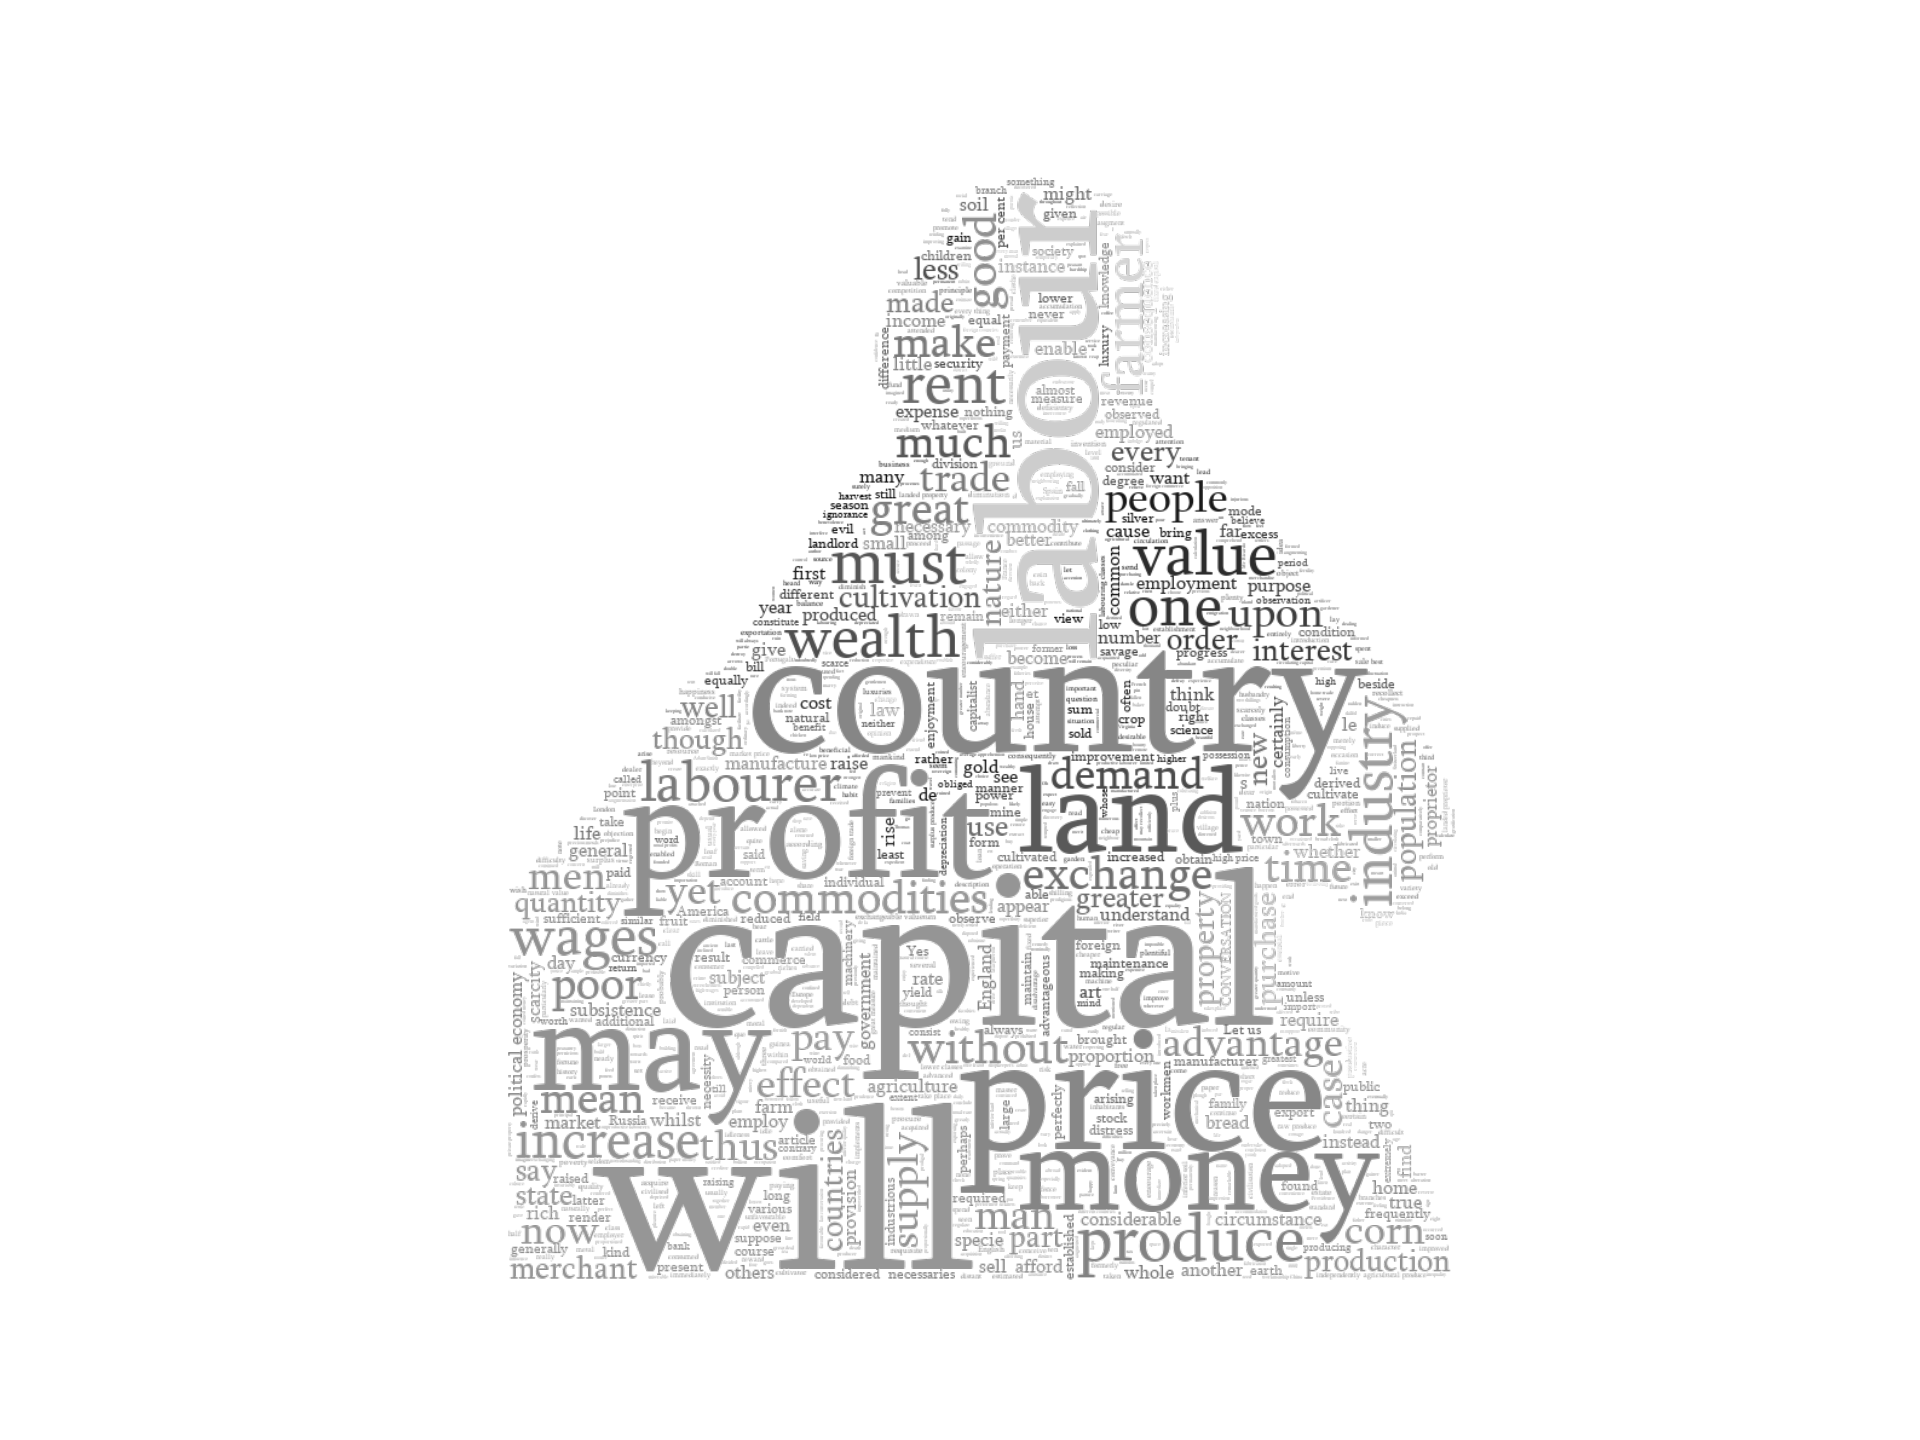
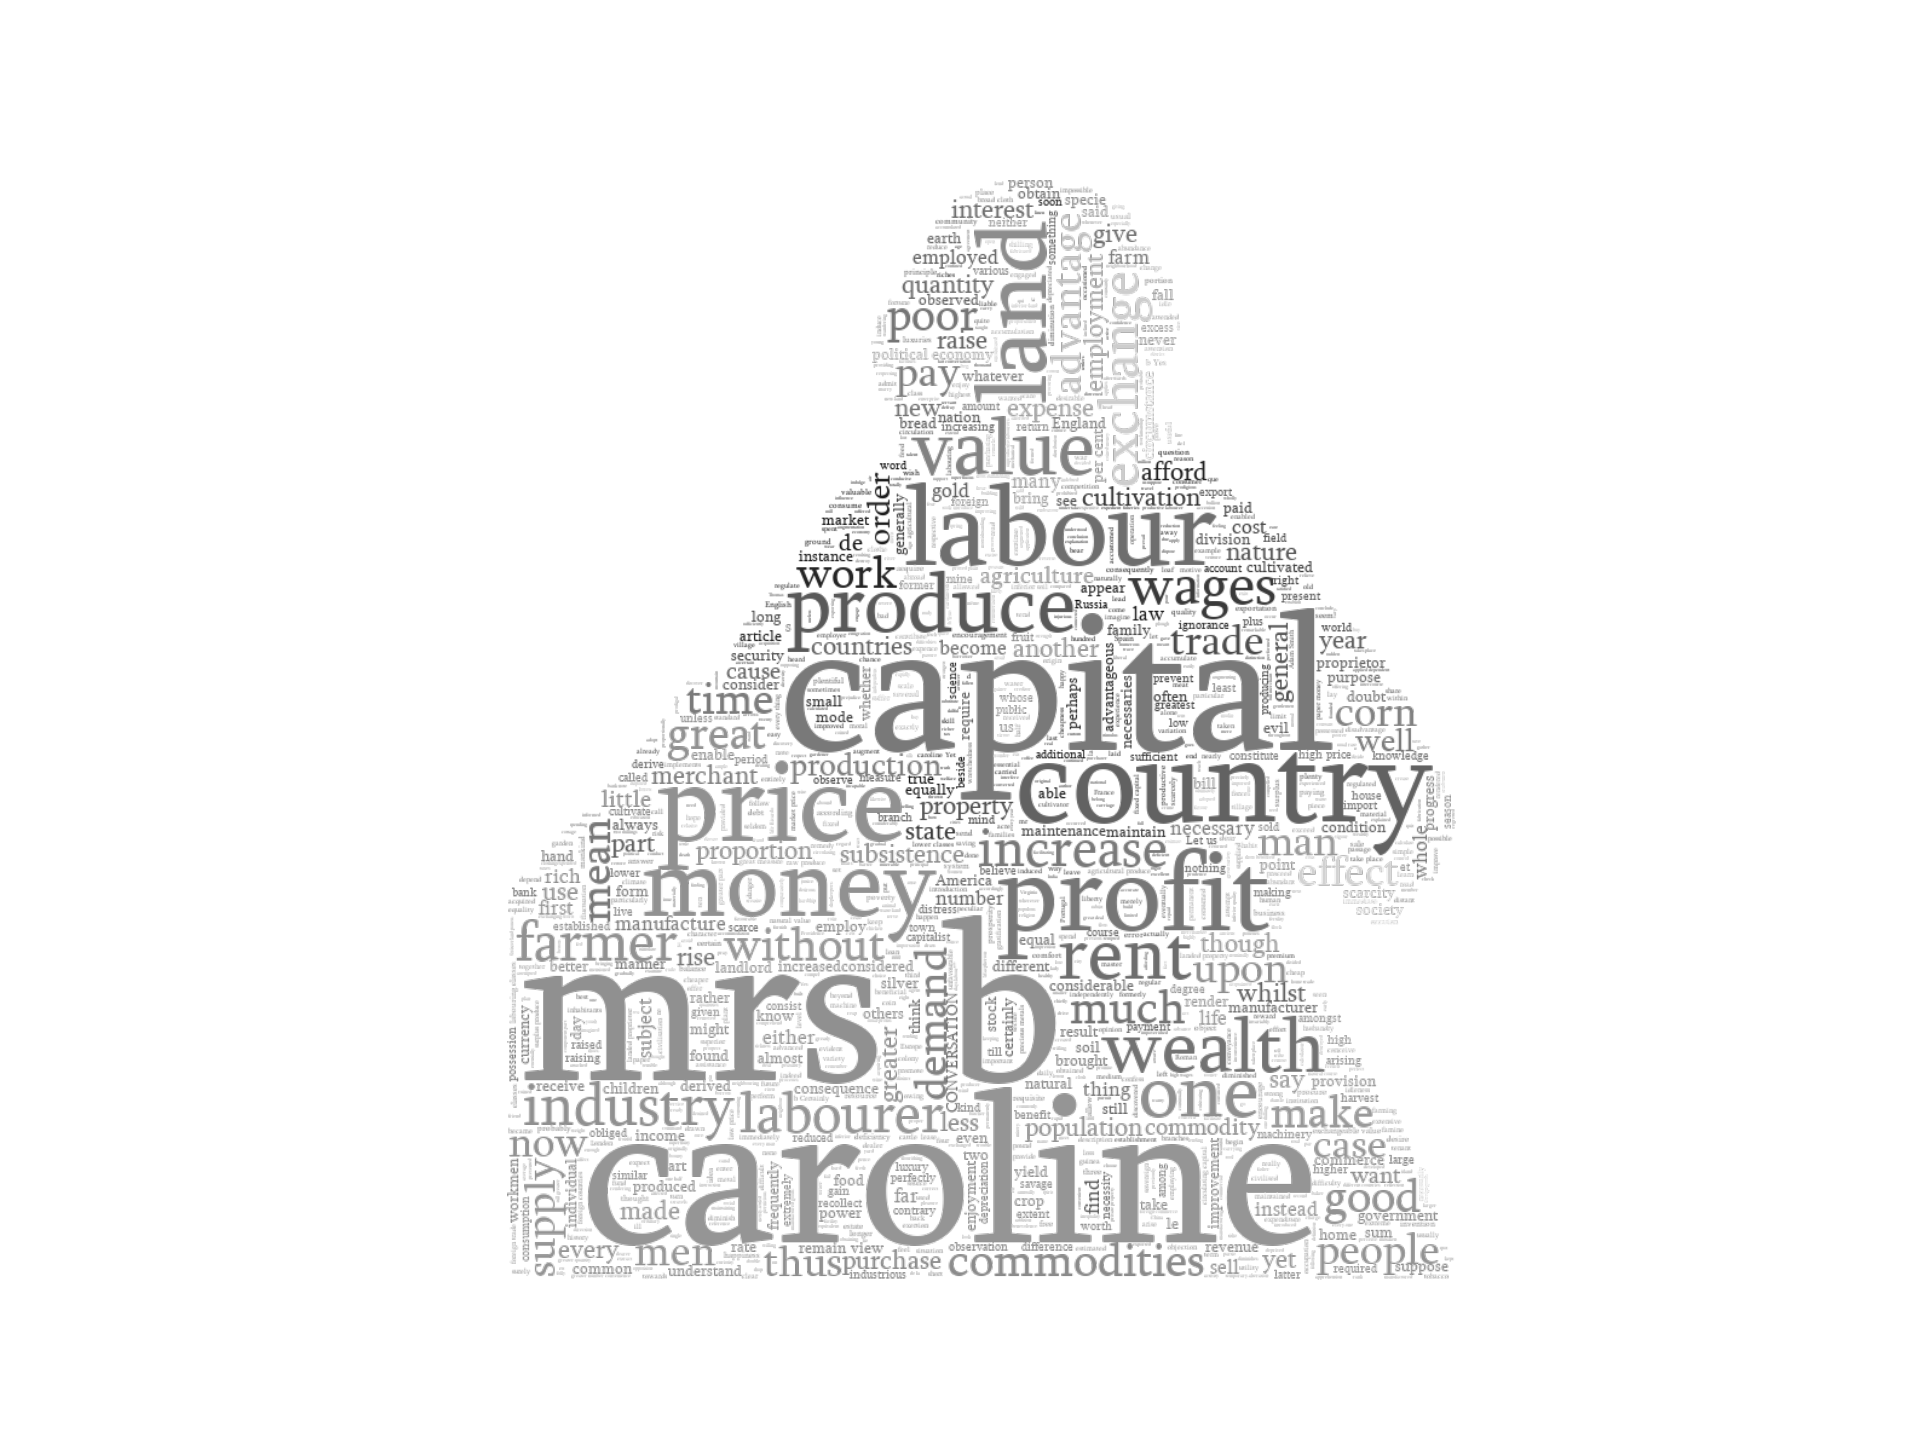
Add files via upload

Changed region(s): [[0.25, 0.125, 0.75, 0.9062]]

diff --git a/marcetScript.py b/marcetScript.py
@@ -7,7 +7,7 @@ from wordcloud import WordCloud, STOPWORDS, ImageColorGenerator
 marcetFile = open("C:\\Users\\chris\\Documents\\GitHub\\Political-Economy-Word-Clouds\\marcetConversations.txt", "r", encoding="utf-8")
 marcetTxt = marcetFile.read()
 stopwords = set(STOPWORDS)
-stopwords.update(["caroline", "mrs", "b"])
+stopwords.update(["will", "may", "must"])
 
 marcetMask = np.array(Image.open("C:\\Users\\chris\\Documents\\GitHub\\Political-Economy-Word-Clouds\\marcet.png"))
 
